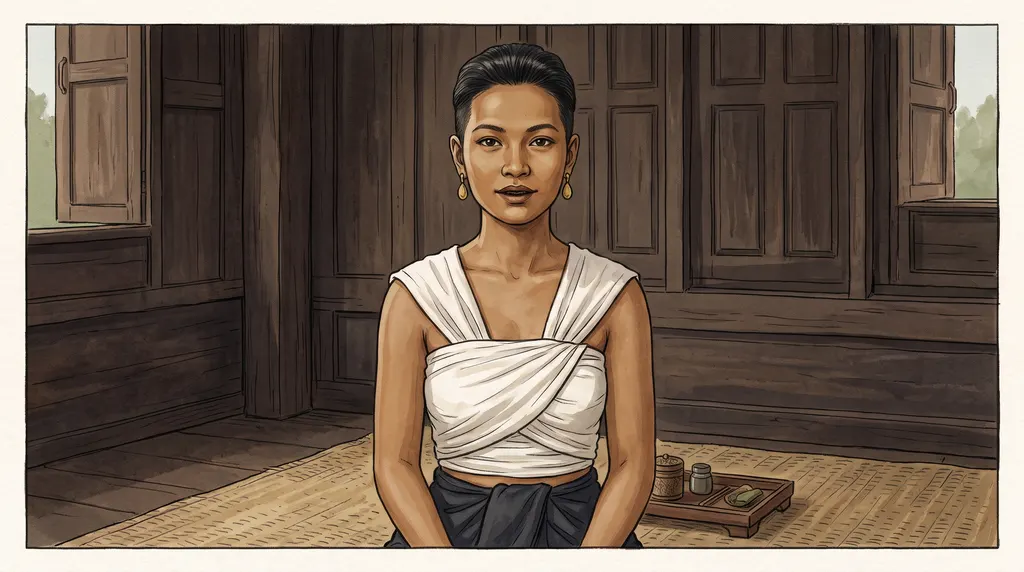
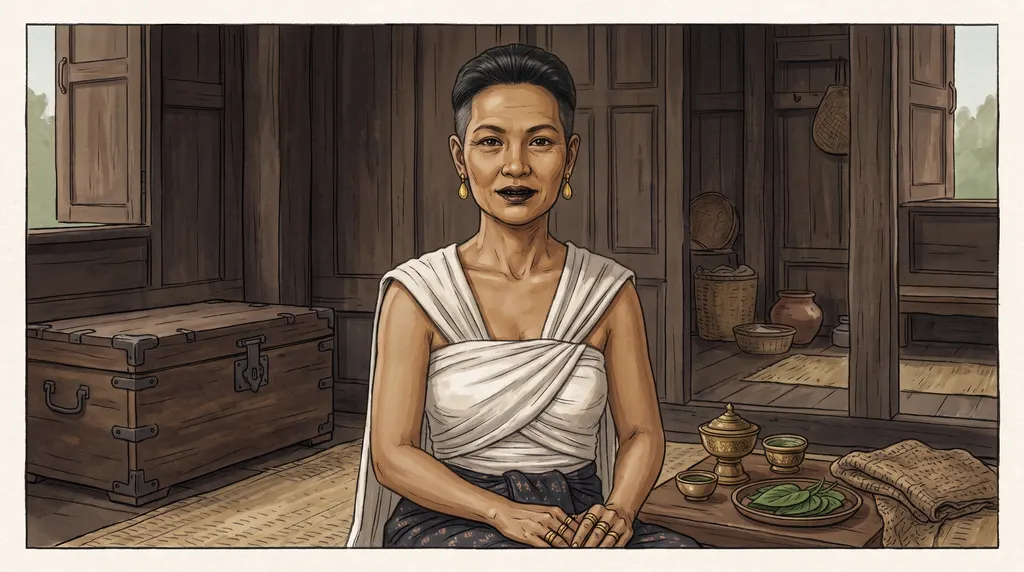
art: own portrait for adult noble wife

Changed region(s): [[0.0312, 0.0297, 1.0, 0.9808]]

diff --git a/art/gemini-redo.md b/art/gemini-redo.md
@@ -76,7 +76,7 @@ Portrait cropped from the upper shoulders up in three-quarter view: a young Siam
 - ทรงผมเป็นบ็อบเกล้าสูง ทั้งที่กติกาห้ามไว้
 - ข้างภาพเป็นกระดาษขาวว่าง ซึ่งจะโผล่ออกมาเมื่อตัดเข้ากรอบ
 
-ตอนนี้ `portrait.f.adult.noble` ยืมภาพหญิงสาวขุนนางไปใช้ก่อน เลยยังต้องสร้างภาพนี้ใหม่อีก 1 ภาพ ให้วาง prompt ด้านล่างต่อจาก style block ของชุดที่ 2:
+ภาพ `portrait.f.adult.noble` สร้างใหม่ด้วย prompt ด้านล่างแล้ว (ครบทั้ง 9 ช่อง):
 
 ```text
 Image (`portrait.f.adult.noble`):
